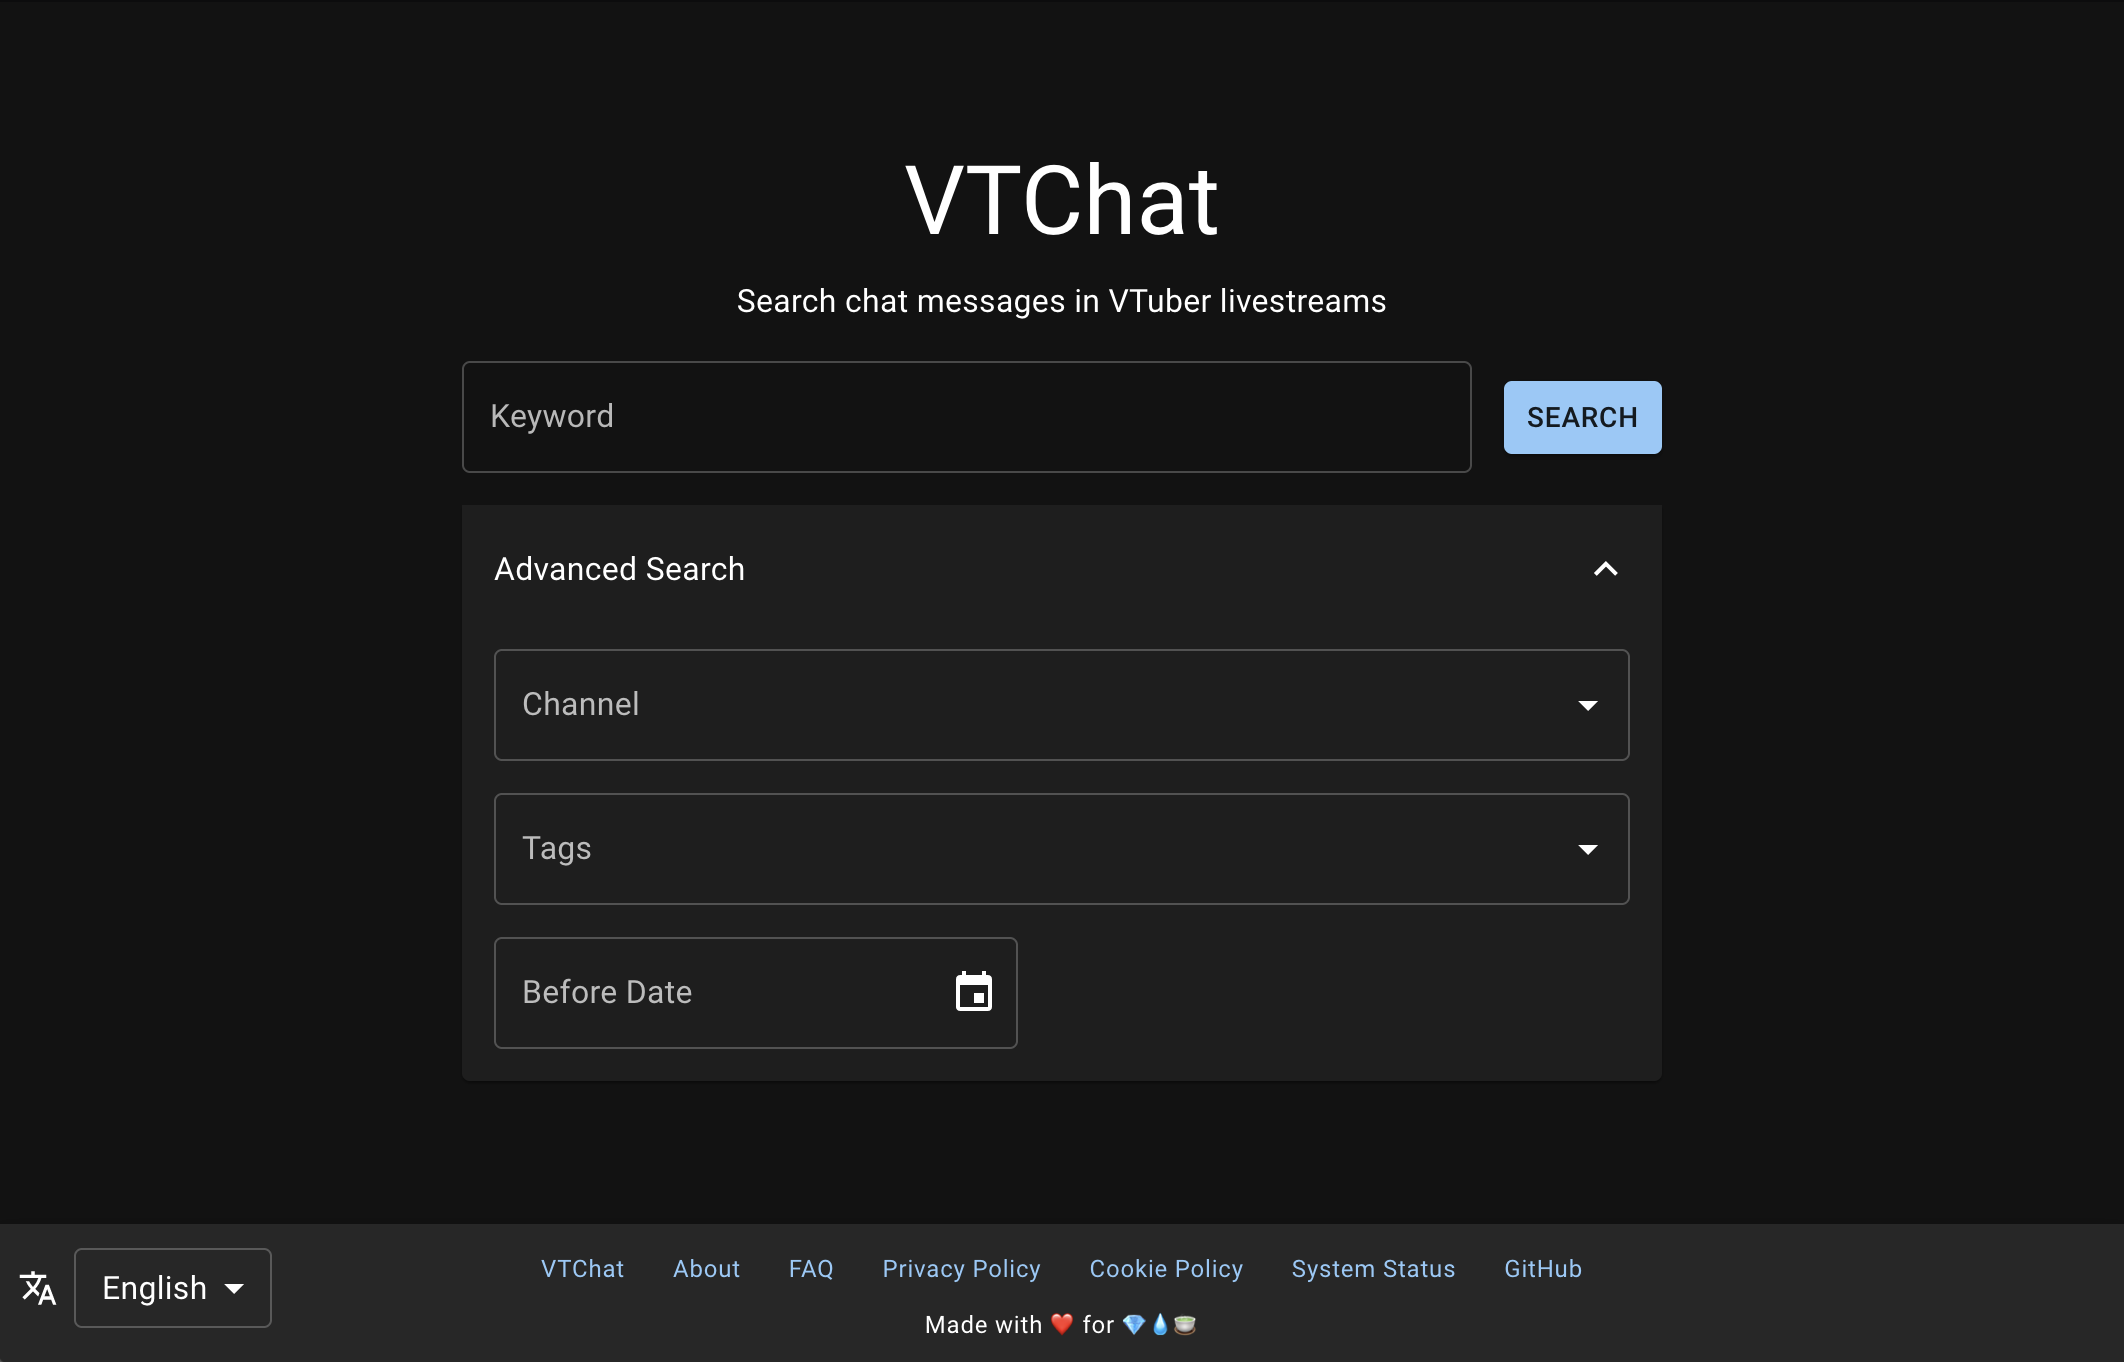
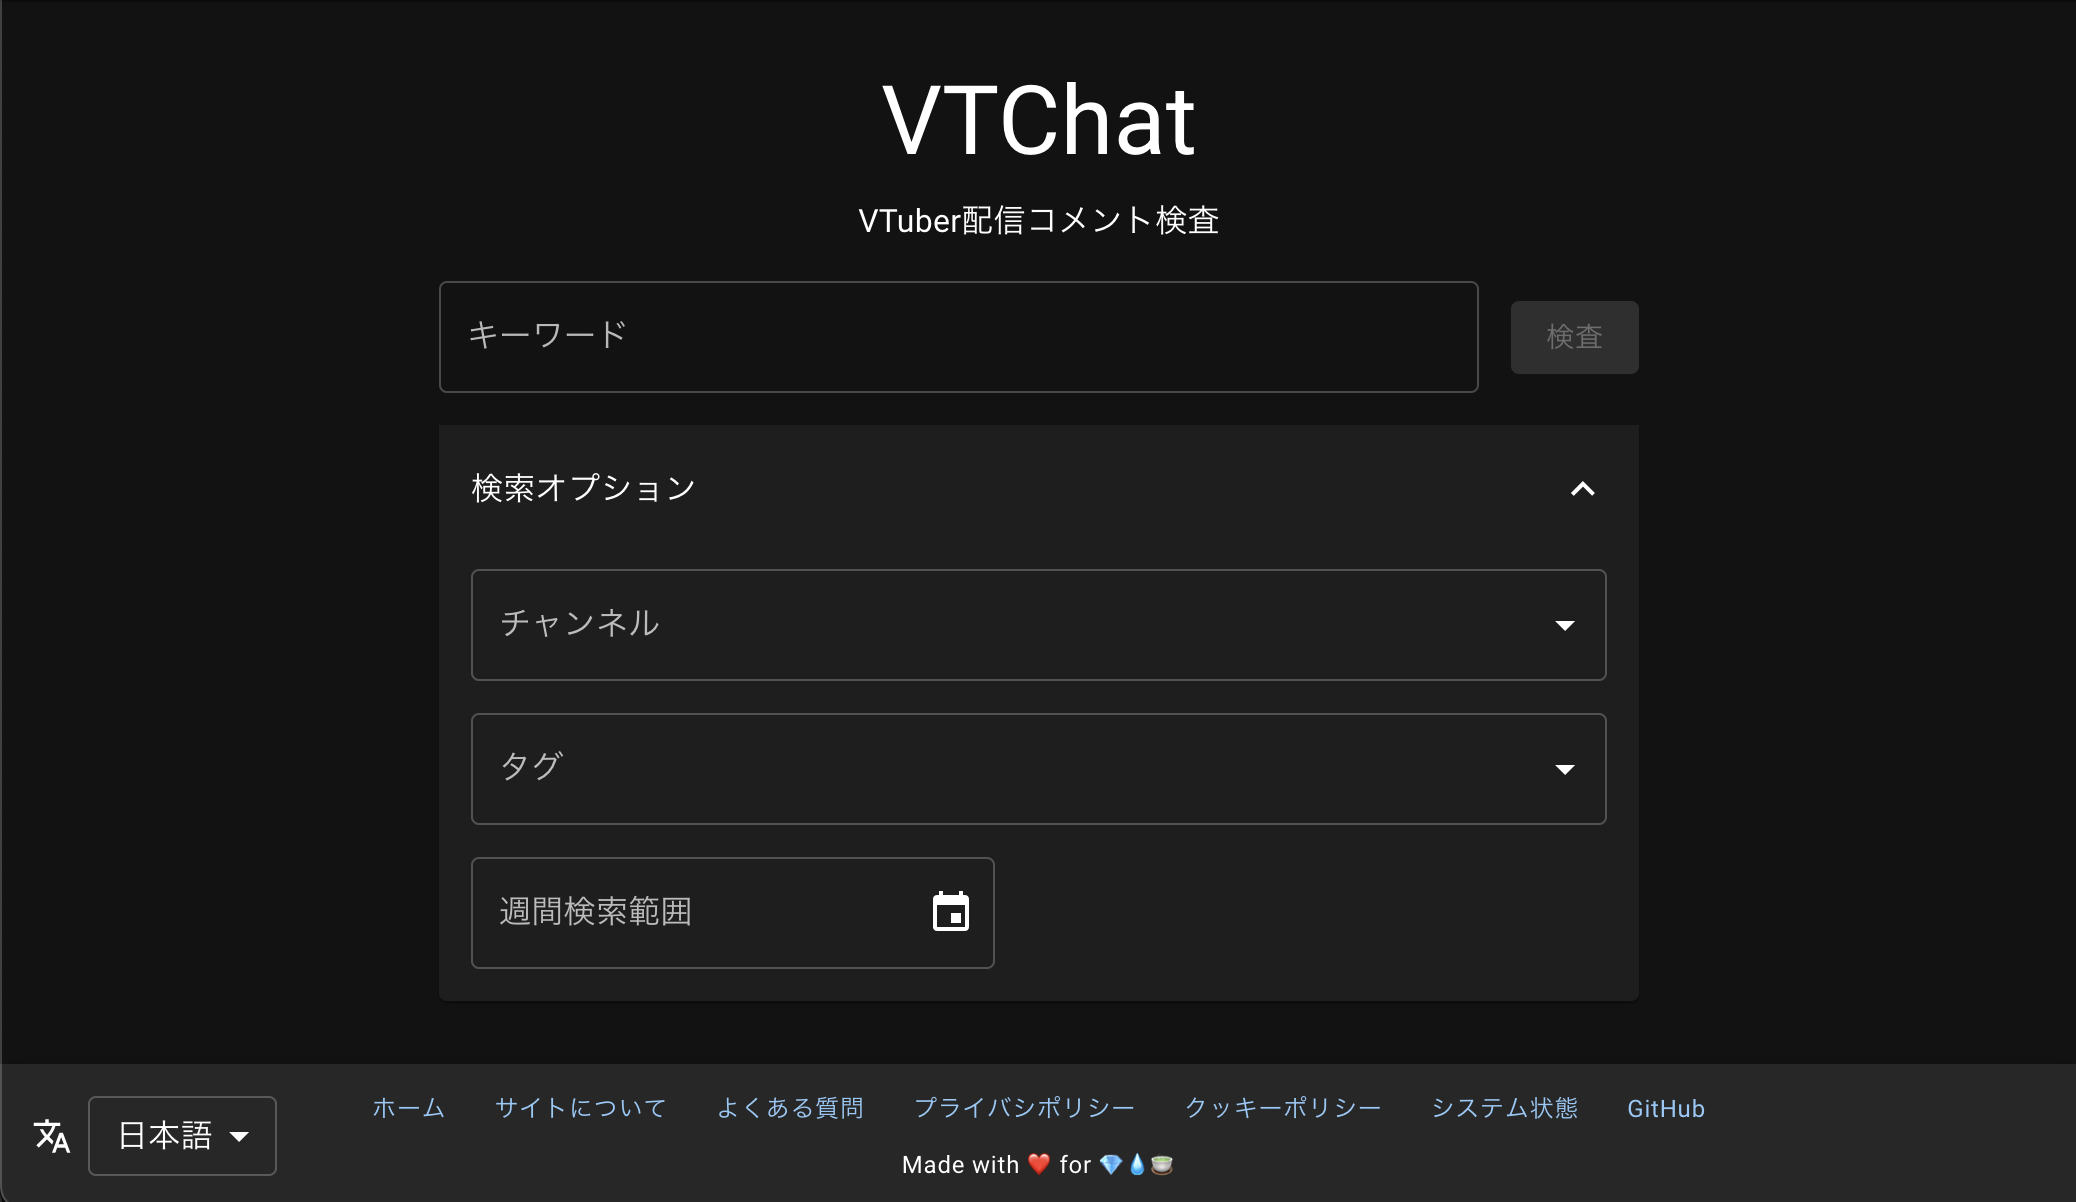
week based pagination

diff --git a/frontend/search/Results.tsx b/frontend/search/Results.tsx
@@ -6,6 +6,7 @@ import { useTranslation } from "react-i18next";
 import { enqueueSnackbar } from "notistack";
 import YTPlayer from "react-youtube";
 import numeral from "numeral";
+import * as  DateFns from "date-fns";
 
 import AppBar from "@mui/material/AppBar";
 import Toolbar from "@mui/material/Toolbar";
@@ -24,6 +25,8 @@ import NavigateNextIcon from "@mui/icons-material/NavigateNext";
 import NavigateBeforeIcon from "@mui/icons-material/NavigateBefore";
 import ChatIcon from "@mui/icons-material/Chat";
 import VoiceChatIcon from "@mui/icons-material/VoiceChat";
+import SkipNext from "@mui/icons-material/SkipNext";
+import SkipPrevious from "@mui/icons-material/SkipPrevious";
 
 import * as API from "./api";
 
@@ -52,18 +55,22 @@ export default function Results() {
             q: qs.get("q"),
             ch: qs.get("ch"),
             tags: qs.has("tag") ? { [qs.get("tag")]: 1 } : null,
-            before: qs.has("bf") ? Number(qs.get("bf")) : null,
-            offset: qs.has("p") ? Number(qs.get("p")) : null,
+            weekOf: qs.has("wk") ? Number(qs.get("wk")) : null,
+            offset: qs.has("o") ? Number(qs.get("o")) : null,
             limit: pageSize,
         };
-        const page = Number.isInteger(r.offset)? r.offset: 0;
         if (!(r.q?.length > 1)) return null;
         if (!r.ch) delete r.ch;
         if (!r.tags) delete r.tags;
-        if (!Number.isInteger(r.before)) delete r.before;
         if (!Number.isInteger(r.offset)) delete r.offset;
-        else r.offset *= pageSize;
-        return [r, page];
+        r.weekOf = DateFns.startOfWeek(Number.isInteger(r.weekOf)? r.weekOf: Date.now(), { weekStartsOn: 1 }).getTime();
+        return [r, {
+            n: Math.floor((r.offset || 0) / pageSize) + 1,
+            y: DateFns.getYear(r.weekOf),
+            m: DateFns.getMonth(r.weekOf) + 1,
+            mmm: DateFns.format(r.weekOf, "MMM"),
+            w: DateFns.getISOWeek(r.weekOf),
+        }];
     }, [qs]);
 
     if (!req) {
@@ -95,23 +102,56 @@ export default function Results() {
             <AppBar>
                 <Toolbar>
                     <IconButton sx={{ mr: 2 }} onClick={() => navigate("/")}><HomeIcon /></IconButton>
-                    <IconButton sx={{ mr: 1 }} disabled={!req.offset} onClick={() => {
+                    <IconButton sx={{ mr: 1 }} onClick={() => {
                         const qs2 = new URLSearchParams(qs);
-                        qs2.set("p", String(Math.max(0, page - 1)));
+                        qs2.delete("o");
+                        const prev = DateFns.previousMonday(req.weekOf);
+                        qs2.set("wk", String(prev.getTime()));
+                        setQs(qs2);
+                    }}>
+                        <SkipPrevious />
+                    </IconButton>
+                    <IconButton sx={{ mr: 1 }} onClick={() => {
+                        const qs2 = new URLSearchParams(qs);
+                        if((search.result?.length || 0) >= pageSize) {
+                            qs2.set("o", String((req.offset || 0) + pageSize));
+                        } else {
+                            qs2.delete("o");
+                            const prev = DateFns.previousMonday(req.weekOf);
+                            qs2.set("wk", String(prev.getTime()));
+                        }
                         setQs(qs2);
                     }}>
                         <NavigateBeforeIcon />
                     </IconButton>
-                    <Chip sx={{ mr: 1 }} label={t("page", { n: page + 1 })}/>
-                    <IconButton sx={{ mr: 2 }} disabled={(search.result?.length || 0) < pageSize} onClick={() => {
+                    <Chip sx={{ mr: 1 }} label={t("page", page)}/>
+                    <IconButton sx={{ mr: 1 }} disabled={(
+                        !req.offset &&
+                        DateFns.isFuture(DateFns.endOfWeek(req.weekOf, { weekStartsOn: 1 }))
+                    )} onClick={() => {
                         const qs2 = new URLSearchParams(qs);
-                        qs2.set("p", String(page + 1));
+                        if(req.offset) {
+                            qs2.set("o", String(Math.max(0, (req.offset || 0) - pageSize)));
+                        } else {
+                            qs2.delete("o");
+                            const next = DateFns.nextMonday(req.weekOf);
+                            qs2.set("wk", String(next.getTime()));
+                        }
                         setQs(qs2);
                     }}>
                         <NavigateNextIcon />
                     </IconButton>
+                    <IconButton sx={{ mr: 2 }} disabled={DateFns.isFuture(DateFns.endOfWeek(req.weekOf, { weekStartsOn: 1 }))} onClick={() => {
+                        const qs2 = new URLSearchParams(qs);
+                        qs2.delete("o");
+                        const next = DateFns.nextMonday(req.weekOf);
+                        qs2.set("wk", String(next.getTime()));
+                        setQs(qs2);
+                    }}>
+                        <SkipNext />
+                    </IconButton>
                     <TextField
-                        size="small" sx={{ mr: 2, flex: 1 }} defaultValue={req.q} InputProps={{ readOnly: true }}
+                        size="small" sx={{ flex: 1 }} defaultValue={req.q} InputProps={{ readOnly: true }}
                         label={t("result", { n: search.result?.length || 0 })} />
                 </Toolbar>
             </AppBar>

diff --git a/frontend/search/Search.tsx b/frontend/search/Search.tsx
@@ -37,7 +37,7 @@ export default function Search() {
     const [chQuery2] = useDebounce(chQuery, 800);
     const channels = useAsync(csearch, [chQuery2]);
 
-    const [search, setSearch] = useState<{ q: string, ch?: string, tag?: string, before?: number }>({ q: "" });
+    const [search, setSearch] = useState<{ q: string, ch?: string, tag?: string, weekOf?: number }>({ q: "" });
 
     return (
         <Stack alignItems="center" justifyContent="center" spacing={1} sx={{ height: "100%" }}>
@@ -48,8 +48,8 @@ export default function Search() {
                 <TextField label={t("keyword")} sx={{ width: "100%" }} value={search.q}
                     onChange={e => setSearch({ ...search, q: e.target.value })} />
                 <Button variant="contained" disabled={search.q.length < 2} onClick={() => {
-                    const { before, ...rest } = search;
-                    const params = { ...rest, ...(Number.isInteger(before)? { bf: String(before) }: {}) };
+                    const { weekOf, ...rest } = search;
+                    const params = { ...rest, ...(Number.isInteger(weekOf)? { wk: String(weekOf) }: {}) };
                     navigate({ pathname: "/search", search: createSearchParams(params).toString() });
                 }}>
                     {t("search")}
@@ -91,9 +91,9 @@ export default function Search() {
                     <LocalizationProvider dateAdapter={AdapterDateFns}>
                         <DatePicker
                             sx={{ marginTop: 2 }}
-                            value={search.before ? new Date(search.before * 1000) : null}
-                            onChange={(val) => setSearch({ ...search, before: Math.floor(val.getTime() / 1000) })}
-                            label={t("beforeDate")}
+                            value={search.weekOf ? new Date(search.weekOf) : null}
+                            onChange={(val) => setSearch({ ...search, weekOf: val.getTime() })}
+                            label={t("weekOf")}
                         />
                     </LocalizationProvider>
                 </AccordionDetails>

diff --git a/frontend/search/i18n.ts b/frontend/search/i18n.ts
@@ -26,12 +26,12 @@ i18next.use(LanguageDetector).use(initReactI18next).init({
                 search: "Search",
                 advancedSearch: "Advanced Search",
                 channel: "Channel",
-                beforeDate: "Before Date",
+                weekOf: "Results within week of",
                 tags: "Tags",
                 desc: "Search chat messages in VTuber livestreams",
                 noResult: "No results found.",
                 result: "Showing {{n}} results for:",
-                page: "Page {{n}}"
+                page: "{{y}} Week {{w}} ({{mmm}}) Page {{n}}"
             },
         },
         ja: {
@@ -49,12 +49,12 @@ i18next.use(LanguageDetector).use(initReactI18next).init({
                 search: "検査",
                 advancedSearch: "検索オプション",
                 channel: "チャンネル",
-                beforeDate: "日付以前",
+                weekOf: "週間検索範囲",
                 tags: "タグ",
                 desc: "VTuber配信コメント検査",
                 noResult: "結果はありません。",
                 result: "ページ結果 {{n}} 件",
-                page: "ページ {{n}}"
+                page: "{{y}}週{{w}} ({{m}}月) ページ {{n}}"
             },
         },
     },

diff --git a/frontend/search/Faq.tsx b/frontend/search/Faq.tsx
@@ -12,6 +12,18 @@ export default function Faq() {
                 If your channel doesn't show up on the input field's autocomplete, it is not currently tracked.
                 Feel free to contact me for new channel requests.
             </Typography>
+            <Typography variant="h5">Q: What streams can be searched?</Typography>
+            <Divider/>
+            <Typography sx={{ margin: 3 }}>
+                Public stream archives are generally indexed 24 hours after the stream has ended. Private, unlisted, or members-only streams
+                are not searchable.
+            </Typography>
+            <Typography variant="h5">Q: What does "Results within week of" mean under advanced search?</Typography>
+            <Divider/>
+            <Typography sx={{ margin: 3 }}>
+                For performance reasons, search results can only be returned 1 week at a time.
+                The option specify which week you want to begin searching from, results within the week of the selected date will be returned.
+            </Typography>
             <Typography variant="h5">Q: What are tags?</Typography>
             <Divider/>
             <Typography sx={{ margin: 3 }}>

diff --git a/frontend/search/api.ts b/frontend/search/api.ts
@@ -27,7 +27,7 @@ export async function csearch({ q }): Promise<Array<{
     return channels;
 }
 
-export async function search(params): Promise<Array<{
+export async function search({ weekOf, ...params }): Promise<Array<{
     type: "chat" | "transcript",
     video: string,
     channel: string,
@@ -38,7 +38,7 @@ export async function search(params): Promise<Array<{
         method: "POST",
         mode: "cors",
         headers: { "Content-Type": "application/json" },
-        body: JSON.stringify(params),
+        body: JSON.stringify({...params, weekOf: weekOf/1000 }),
     });
     if(resp.status >= 400) throw Error((await resp.text()) || resp.statusText);
     const { msgs } = await resp.json();
